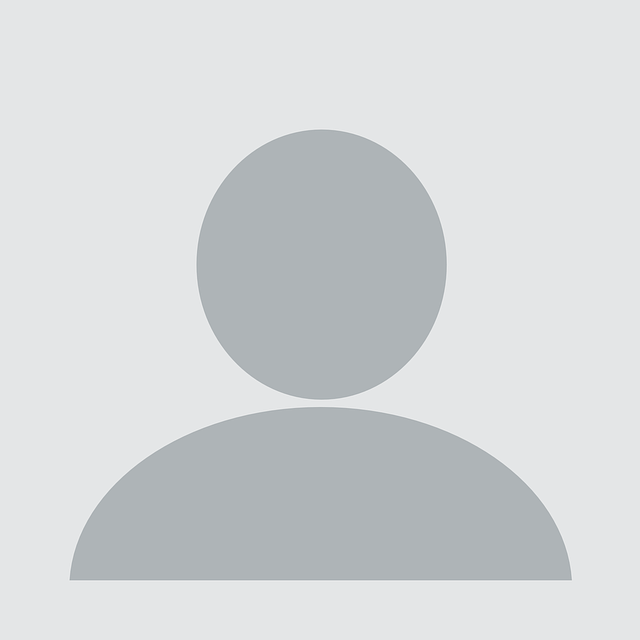
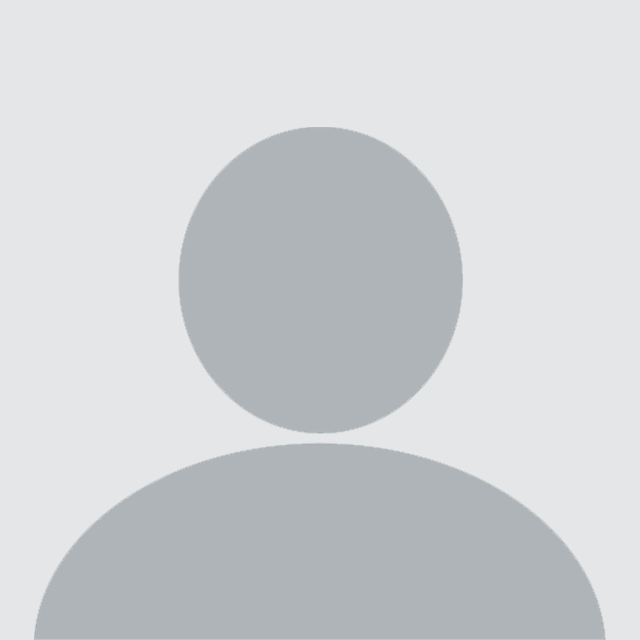
Updates on postView + Updated default pfp

diff --git a/routes/posts.js b/routes/posts.js
@@ -1,12 +1,13 @@
 const express = require("express");
 const router = express.Router();
 const path = require('path');
+const User = require("../models/users");
 const Post = require("../models/posts");
+const Comment = require("../models/comments")
 const RepComment = require("../models/reportComments");
 const RepPost = require("../models/reportPosts");
 
 // TO-DO - DATABASE NEEDED: Add .post of routes
-
 
 // ============== Post Uploading ==============
 
@@ -21,14 +22,48 @@ router.post("/postUpload", function(req, res){
     // Redirect to upload folder
     img.mv(path.resolve(__dirname + '/..', 'public/images/posts', imgName));
 
-    // Adding to Database here***
+    // TO-DO: Adding to Database here***
 });
+
+// ============== Post Viewing ==============
+
+router.get("/post/:id", function(req, res){
+    const postID = req.params.id;
+    console.log(postID)
+
+    Post.findById(postID)
+        .then((postRes) => {
+            Comment.find({postID: postID})
+                .then((commRes) => {
+                    User.findOne({username: postRes.username})
+                        .then((userRes) => {
+                            res.render("postView", {
+                                title: "Your Main Source of Fun",
+                                user: userRes,
+                                post: postRes,
+                                comments: commRes
+                        })
+                        .catch((err) =>{
+                            console.log(err);
+                        })
+                    
+                })
+                .catch((err) =>{
+                    console.log(err);
+                })
+        })
+        .catch((err) => {
+            console.log(err);
+        })
+    
+    });
+});
+
 
 // ============== Post Reporting ==============
 
 router.post("/postReport/:id", function(req, res){
     const postID = req.params.id;
-
     console.log(postID)
 
     Post.findById(postID)
@@ -57,18 +92,12 @@ router.post("/confirmReport/:id", function(req, res){
 
     report.save()
         .then((result) => {
-            res.redirect("/");
+            res.redirect("/post/" + req.params.id);
         })
         .catch((err) =>{
             res.send(err);
         });
 
-});
-
-// ============== Post Viewing ==============
-
-router.get("/postView", function(req, res){
-    res.render("postView", {title: "Your Main Source of Fun"});
 });
 
 module.exports = router;

diff --git a/routes/users.js b/routes/users.js
@@ -11,16 +11,17 @@ router.get("/user/:profileName", function(req, res){
 
     User.findOne({username: profileName})
         .then((userRes) =>{
-            Post.find({username: profileName}).then((postRes) =>{
-                res.render("userView", {
-                    title: "Your Main Source of Fun",
-                    users: userRes,
-                    posts: postRes
+            Post.find({username: profileName})
+                .then((postRes) =>{
+                    res.render("userView", {
+                        title: "Your Main Source of Fun",
+                        users: userRes,
+                        posts: postRes
+                    });
+                })
+                .catch((err) =>{
+                    console.log(err);
                 });
-            })
-            .catch((err) =>{
-                console.log(err);
-            });
         })
         .catch((err) =>{
             console.log(err);

diff --git a/public/style.css b/public/style.css
@@ -876,6 +876,7 @@ body{
 
 .view-post-stats button{
     background-color: #8c7e89;
+    color: white;
     border: none;
     border-radius: 3px;
     margin-top: 8px;
@@ -890,6 +891,11 @@ body{
 }
 
 .view-post-stats p{
+    display: inline;
+}
+
+.view-post-stats-others{
+    float: right;
     display: inline;
 }
 
